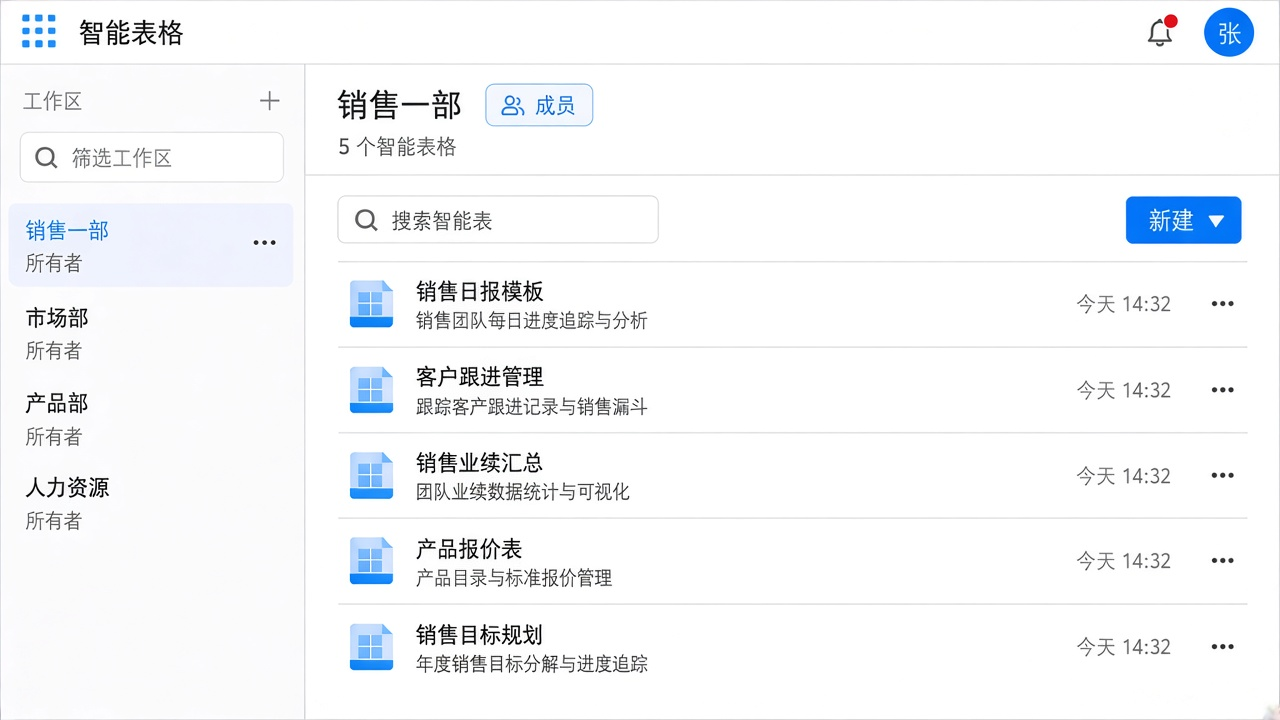
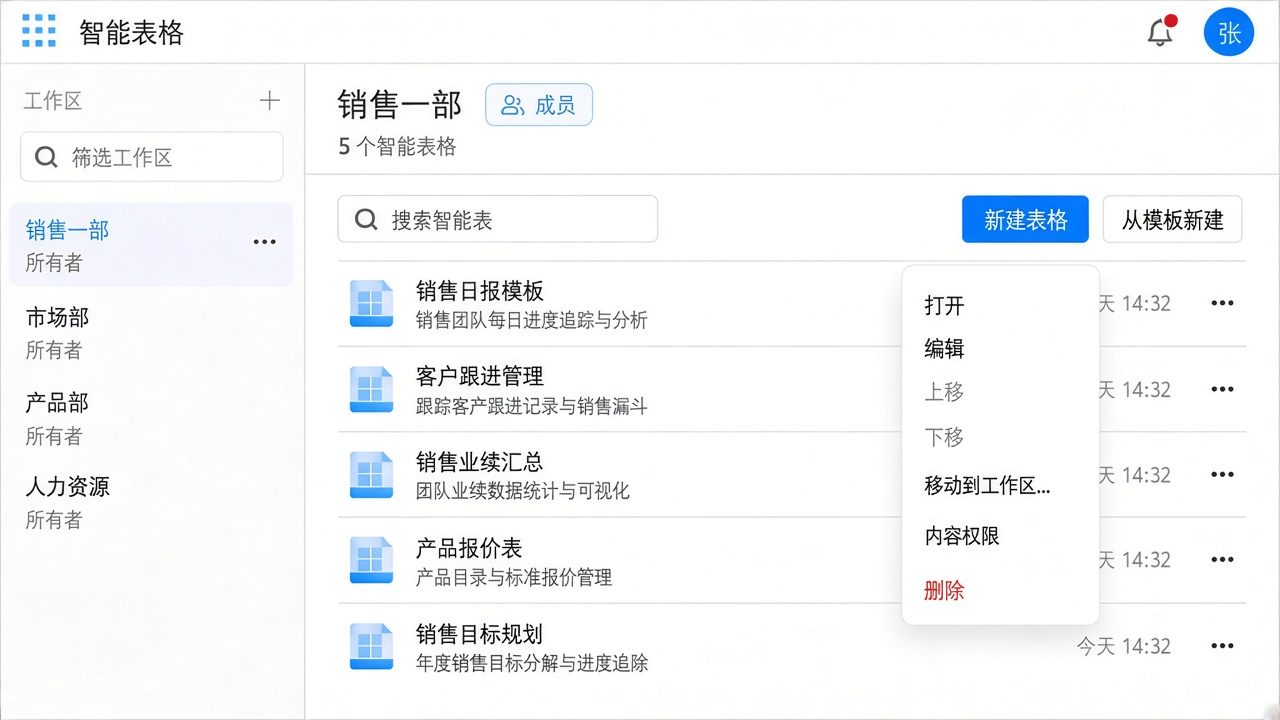
更新目录最新讨论稿：智能表行菜单与双新建按钮。

diff --git a/docs/design-refs/product-shell/README.md b/docs/design-refs/product-shell/README.md
@@ -67,8 +67,9 @@
 
 | 文件 | 说明 |
 |------|------|
-| **`01-catalog-latest.jpg`** | **目录页最新讨论稿（2026-10-24，未进 approved）**；小改以此为基准参考图。要点：双路由目录、成员浅蓝次要钮贴标题旁、顶栏铃铛+右上角红点、搜索+新建、列表名/描述叠排 |
-| `01-catalog-msg-icon-dot.jpg` | 与 latest 同内容备份（铃铛红点这一版） |
+| **`01-catalog-latest.jpg`** | **目录页最新讨论稿（未定稿）** = 与 `01-catalog-two-create-btns.jpg` 相同。要点：成员浅蓝钮、铃铛红点、搜索、**新建表格 + 从模板新建** 双按钮、智能表行 ⋯ 菜单。备查：`01-catalog-row-menu-ref.png` |
+| `01-catalog-two-create-btns.jpg` | 同上（命名备份） |
+| `01-catalog-msg-icon-dot.jpg` | 更早一版（单「新建」下拉），已非 latest |
 | `01-catalog-members-blue.jpg` 等 | 过程迭代，仅备查 |
 | `02-workbench-members-reloc.jpg` | 工作台待审（尚未轮到细抠） |
 | `01b` / `02b` | 更早 ux-opt 参考 |
